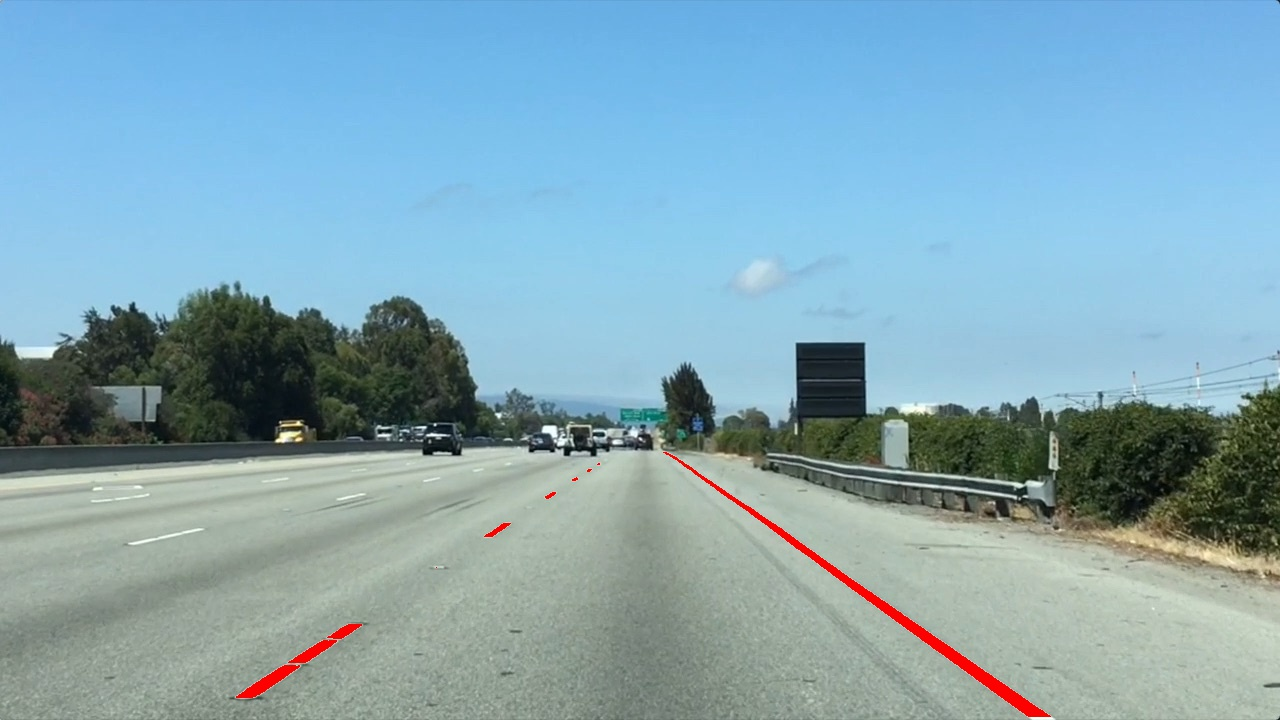
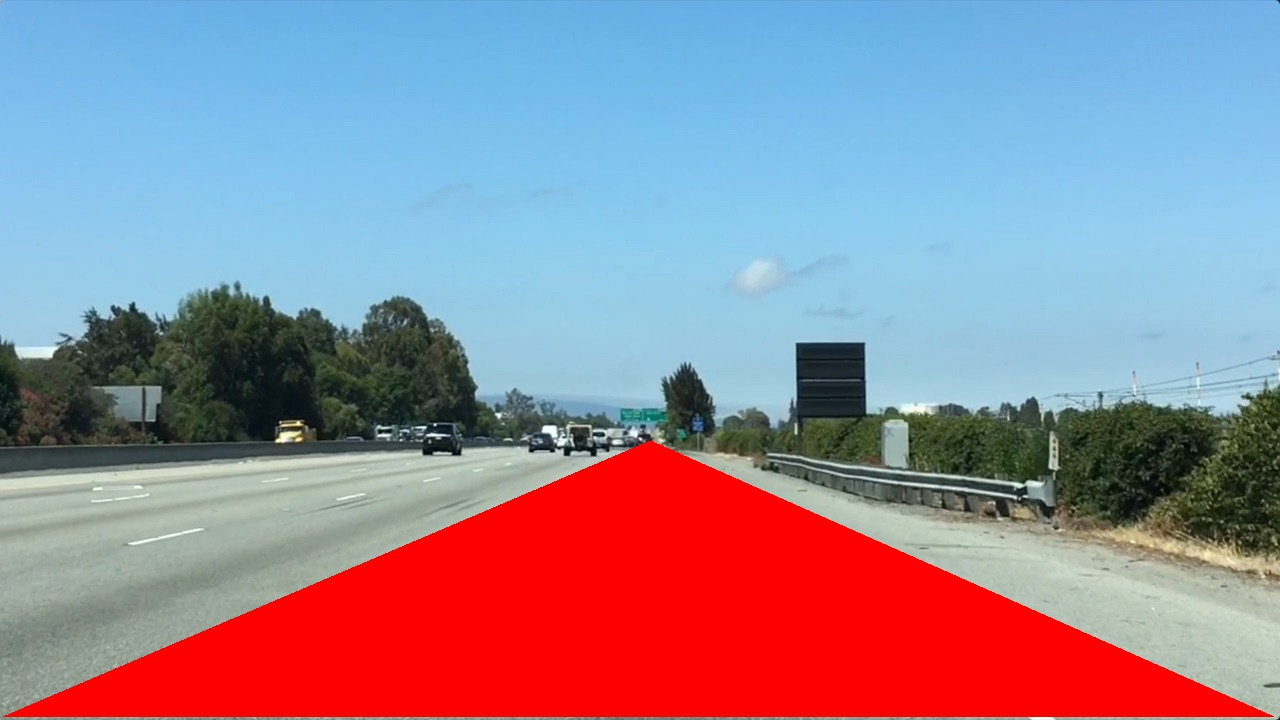
refine 2019.7.10

Changed region(s): [[0.0, 0.6111, 1.0, 1.0]]

diff --git a/color_region.py b/color_region.py
@@ -7,7 +7,7 @@ image = mpimg.imread('test.jpg')
 
 # Grab the x and y sizes and make two copies of the image
 # With one copy we'll extract only the pixels that meet our selection,
-# then we'll paint those pixels red in the original image to see our selection
+# then we'll paint those pixels red in the original image to see our selection 
 # overlaid on the original.
 ysize = image.shape[0]
 xsize = image.shape[1]
@@ -20,14 +20,14 @@ green_threshold = 0
 blue_threshold = 0
 rgb_threshold = [red_threshold, green_threshold, blue_threshold]
 
-# Define a triangle region of interest (Note: if you run this code,
+# Define a triangle region of interest (Note: if you run this code, 
 # Keep in mind the origin (x=0, y=0) is in the upper left in image processing
-# you'll find these are not sensible values!!
-# But you'll get a chance to play with them soon in a quiz ;)
 left_bottom = [0, 717]
 right_bottom = [1276, 717]
 apex = [650, 440]
 
+# Perform a linear fit (y=Ax+B) to each of the three sides of the triangle
+# np.polyfit returns the coefficients [A, B] of the fit
 fit_left = np.polyfit((left_bottom[0], apex[0]), (left_bottom[1], apex[1]), 1)
 fit_right = np.polyfit((right_bottom[0], apex[0]), (right_bottom[1], apex[1]), 1)
 fit_bottom = np.polyfit((left_bottom[0], right_bottom[0]), (left_bottom[1], right_bottom[1]), 1)
@@ -42,14 +42,21 @@ XX, YY = np.meshgrid(np.arange(0, xsize), np.arange(0, ysize))
 region_thresholds = (YY > (XX*fit_left[0] + fit_left[1])) & \
                     (YY > (XX*fit_right[0] + fit_right[1])) & \
                     (YY < (XX*fit_bottom[0] + fit_bottom[1]))
+
 # Mask color selection
 color_select[color_thresholds] = [0,0,0]
+
 # Find where image is both colored right and in the region
 line_image[~color_thresholds & region_thresholds] = [255,0,0]
 
+# Draw the dash line on the boundary
+x = [left_bottom[0], right_bottom[0], apex[0], left_bottom[0]]
+y = [left_bottom[1], right_bottom[1], apex[1], left_bottom[1]]
+plt.plot(x, y, 'b--', lw=4)
+
 # Display our two output images
 plt.imshow(color_select)
-plt.imshow(line_image)
-
-# uncomment if plot does not display
 plt.show()
+plt.imshow(line_image)
+plt.show()
+mpimg.imsave("test-line-image.jpg", line_image)

diff --git a/canny_edges.py b/canny_edges.py
@@ -2,12 +2,15 @@
 import matplotlib.pyplot as plt
 import matplotlib.image as mpimg
 import numpy as np
+# Bringing in OpenCV libraries
 import cv2
 
 # Read in the image and convert to grayscale
 # Note: in the previous example we were reading a .jpg
 # Here we read a .png and convert to 0,255 bytescale
 image = mpimg.imread('exit-ramp.jpg')
+
+# Grayscale conversion
 gray = cv2.cvtColor(image,cv2.COLOR_RGB2GRAY)
 
 # Define a kernel size for Gaussian smoothing / blurring
